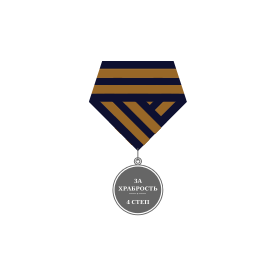
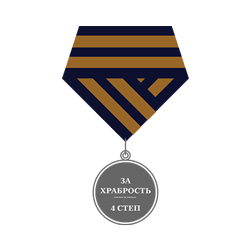
img

Changed region(s): [[0.252, 0.084, 0.756, 0.924]]

diff --git a/styl/main.css b/styl/main.css
@@ -101,7 +101,9 @@ body {
 .compare_block .compare_results .flag_text {
   float: left;
   margin-left: 20px;
+  margin-top: 32px;
   width: 690px;
+  height: 195px;
 }
 .carousel.ordens {
   width: 1047px;
@@ -117,7 +119,7 @@ body {
   width: 160px;
   height: 160px;
   background-position: center !important;
-  background-size: contain !important;
+  background-size: 70% !important;
   background-repeat: no-repeat !important;
   border: 1px solid #000;
   margin-right: 15px;
@@ -128,24 +130,24 @@ body {
 .person {
   width: 395px;
   height: 600px;
-  background-size: 100% auto !important;
+  background-size: 93% auto !important;
   background-position: bottom !important;
   background-repeat: no-repeat !important;
   transition: background-size 0.3s linear;
-  margin-right: -80px;
+  margin-right: -100px;
 }
 .person .orden {
   margin-top: 60px;
 }
 .person.activate,
 .person.no_active {
-  background-size: 80% auto !important;
+  background-size: 70% auto !important;
   opacity: 0.6 !important;
 }
 .person.hover,
 .person.active {
   opacity: 1 !important;
-  background-size: 100% !important;
+  background-size: 93% !important;
   transition: background-size 0.3s linear;
 }
 .person .person_name {

diff --git a/js/main.js b/js/main.js
@@ -37,6 +37,7 @@ $(document).ready(function() {
 		$('.person').droppable({
 			hoverClass: 'hover',
 			activeClass: 'activate',
+			tolerance: 'fit',
 			over: function() {
 				$(this).children('.person_name').show();
 			},
